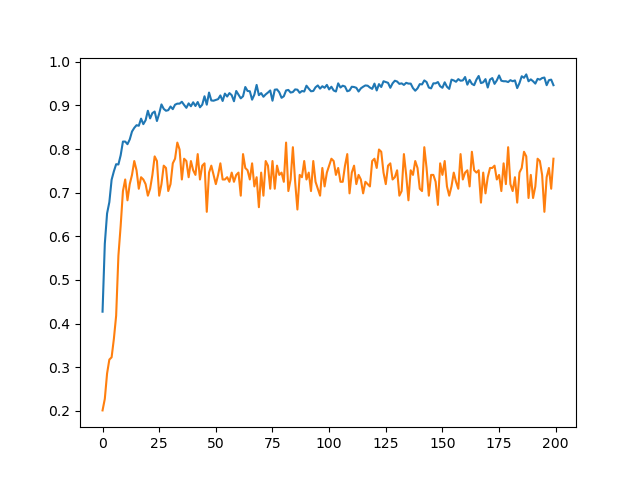
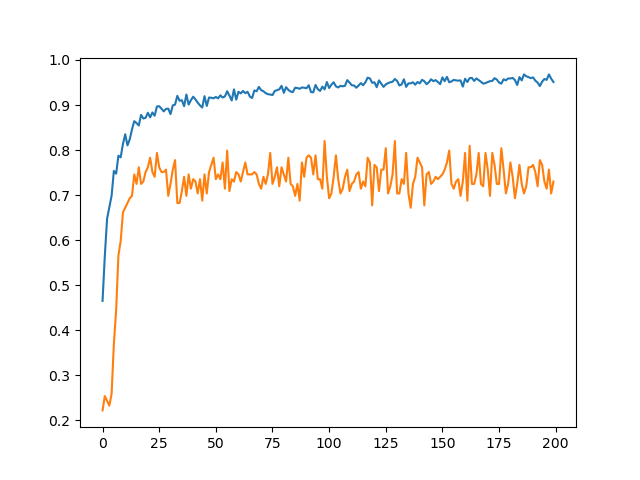
update

diff --git a/source/tf2/masif_ligand/train_model.py b/source/tf2/masif_ligand/train_model.py
@@ -11,7 +11,7 @@ from tf2.masif_ligand.MaSIF_ligand_TF2 import MaSIF_ligand
 #lr = 1e-3
 # Try this learning rate after
 
-l1_val = 0.001
+l1_val = 0
 
 continue_training = False
 dev = '/GPU:3'
